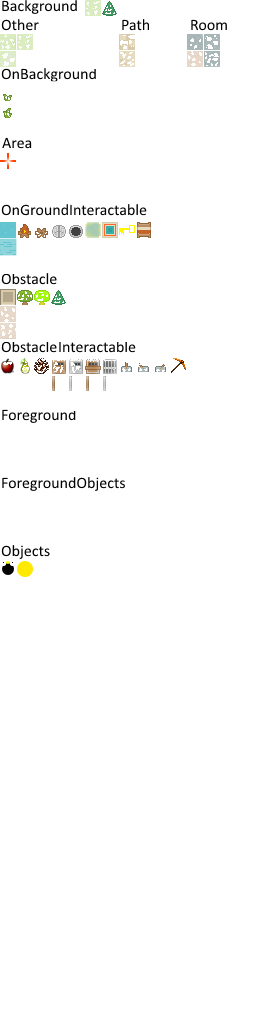
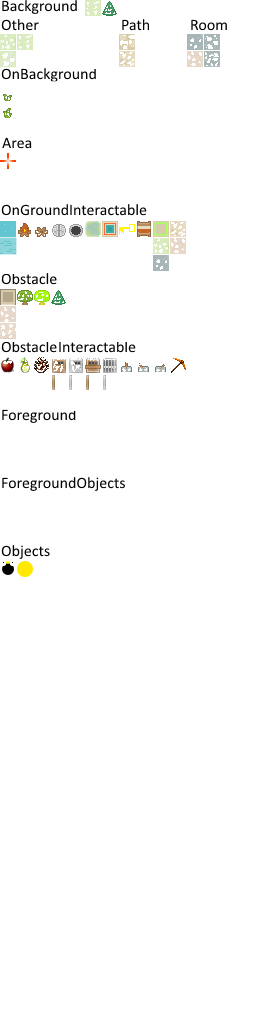
StepSwitcher added; Small changes in physics; mockup map upgraded

diff --git a/Sources/Modules/ToyWorld/World/GameActors/Tiles/OnGroundInteractable/StepSwitch.cs b/Sources/Modules/ToyWorld/World/GameActors/Tiles/OnGroundInteractable/StepSwitch.cs
@@ -1,0 +1,43 @@
+using VRageMath;
+using World.Atlas;
+using World.GameActors.GameObjects;
+using World.ToyWorldCore;
+
+namespace World.GameActors.Tiles.OnGroundInteractable
+{
+    public class StepSwitch : DynamicTile, ISwitcherGameActor, IDetectorTile, IAutoupdateableGameActor
+    {
+        public ISwitchableGameActor Switchable { get; set; }
+
+        public StepSwitch(ITilesetTable tilesetTable, Vector2I position)
+            : base(tilesetTable, position)
+        {
+        }
+
+        public StepSwitch(int tileType, Vector2I position)
+            : base(tileType, position)
+        {
+        }
+
+        public void Switch(GameActorPosition gameActorPosition, IAtlas atlas, ITilesetTable table)
+        {
+            Switchable = Switchable?.SwitchOn(null, atlas, table);
+        }
+
+        public bool RequiresCenterOfObject => false;
+
+        public void ObjectDetected(IGameObject gameObject, IAtlas atlas, ITilesetTable tilesetTable)
+        {
+            Switchable = Switchable?.SwitchOn(null, atlas, tilesetTable);
+            NextUpdateAfter = 1;
+        }
+
+        public int NextUpdateAfter { get; private set; } = 1;
+
+        public void Update(IAtlas atlas, ITilesetTable table)
+        {
+            Switchable = Switchable?.SwitchOff(null, atlas, table);
+            NextUpdateAfter = 0;
+        }
+    }
+}

diff --git a/Sources/Modules/ToyWorld/World/Physics/CollisionChecker.cs b/Sources/Modules/ToyWorld/World/Physics/CollisionChecker.cs
@@ -149,6 +149,7 @@ namespace World.Physics
 
         public bool CollidesWithTile(IPhysicalEntity physicalEntity)
         {
+            if (!physicalEntity.ElasticCollision && !physicalEntity.InelasticCollision) return false;
             List<Vector2I> coverTilesCoordinates = physicalEntity.CoverTiles();
             bool colliding = !coverTilesCoordinates.TrueForAll(x => !m_atlas.ContainsCollidingTile(x));
             return colliding;
@@ -156,6 +157,7 @@ namespace World.Physics
 
         public bool CollidesWithPhysicalEntity(IPhysicalEntity physicalEntity)
         {
+            if (!physicalEntity.ElasticCollision && !physicalEntity.InelasticCollision) return false;
             var circle = new Circle(physicalEntity.Position, 2 * MaximumGameObjectRadius);
             List<IPhysicalEntity> physicalEntities = m_objectLayer.GetPhysicalEntities(circle);
             return physicalEntities.Any(physicalEntity.CollidesWith);

diff --git a/Sources/Modules/ToyWorld/World/GameActors/Tiles/ObstacleInteractable/KeyDoorClosed.cs b/Sources/Modules/ToyWorld/World/GameActors/Tiles/ObstacleInteractable/KeyDoorClosed.cs
@@ -24,5 +24,15 @@ namespace World.GameActors.Tiles.ObstacleInteractable
             atlas.Remove(new GameActorPosition(this, (Vector2)Position, LayerType.ObstacleInteractable));
             return openedDoor;
         }
+
+        public ISwitchableGameActor SwitchOn(GameActorPosition gameActorPosition, IAtlas atlas, ITilesetTable table)
+        {
+            return Switch(gameActorPosition, atlas, table);
+        }
+
+        public ISwitchableGameActor SwitchOff(GameActorPosition gameActorPosition, IAtlas atlas, ITilesetTable table)
+        {
+            return this;
+        }
     }
 }

diff --git a/Sources/Modules/ToyWorld/World/GameActors/Tiles/ObstacleInteractable/RcDoorClosed.cs b/Sources/Modules/ToyWorld/World/GameActors/Tiles/ObstacleInteractable/RcDoorClosed.cs
@@ -24,5 +24,15 @@ namespace World.GameActors.Tiles.ObstacleInteractable
             atlas.Remove(new GameActorPosition(this, (Vector2)Position, LayerType.ObstacleInteractable));
             return openedDoor;
         }
+
+        public ISwitchableGameActor SwitchOn(GameActorPosition gameActorPosition, IAtlas atlas, ITilesetTable table)
+        {
+            return Switch(gameActorPosition, atlas, table);
+        }
+
+        public ISwitchableGameActor SwitchOff(GameActorPosition gameActorPosition, IAtlas atlas, ITilesetTable table)
+        {
+            return this;
+        }
     }
 }

diff --git a/Sources/Modules/ToyWorld/World/GameActors/Tiles/OnGroundInteractable/KeyDoorOpened.cs b/Sources/Modules/ToyWorld/World/GameActors/Tiles/OnGroundInteractable/KeyDoorOpened.cs
@@ -24,5 +24,15 @@ namespace World.GameActors.Tiles.OnGroundInteractable
             atlas.Remove(new GameActorPosition(this, (Vector2)Position, LayerType.OnGroundInteractable));
             return closedDoor;
         }
+
+        public ISwitchableGameActor SwitchOn(GameActorPosition gameActorPosition, IAtlas atlas, ITilesetTable table)
+        {
+            return this;
+        }
+
+        public ISwitchableGameActor SwitchOff(GameActorPosition gameActorPosition, IAtlas atlas, ITilesetTable table)
+        {
+            return Switch(gameActorPosition, atlas, table);
+        }
     }
 }

diff --git a/Sources/Modules/ToyWorld/World/GameActors/Tiles/OnGroundInteractable/RcDoorOpened.cs b/Sources/Modules/ToyWorld/World/GameActors/Tiles/OnGroundInteractable/RcDoorOpened.cs
@@ -24,5 +24,15 @@ namespace World.GameActors.Tiles.OnGroundInteractable
             atlas.Remove(new GameActorPosition(this, (Vector2)Position, LayerType.OnGroundInteractable));
             return closedDoor;
         }
+
+        public ISwitchableGameActor SwitchOn(GameActorPosition gameActorPosition, IAtlas atlas, ITilesetTable table)
+        {
+            return this;
+        }
+
+        public ISwitchableGameActor SwitchOff(GameActorPosition gameActorPosition, IAtlas atlas, ITilesetTable table)
+        {
+            return Switch(gameActorPosition, atlas, table);
+        }
     }
 }

diff --git a/Sources/Modules/ToyWorld/World/GameActors/GameActorInterfaces.cs b/Sources/Modules/ToyWorld/World/GameActors/GameActorInterfaces.cs
@@ -55,6 +55,10 @@ namespace World.GameActors
     public interface ISwitchableGameActor : IGameActor
     {
         ISwitchableGameActor Switch(GameActorPosition gameActorPosition, IAtlas atlas, ITilesetTable table);
+
+        ISwitchableGameActor SwitchOn(GameActorPosition gameActorPosition, IAtlas atlas, ITilesetTable table);
+
+        ISwitchableGameActor SwitchOff(GameActorPosition gameActorPosition, IAtlas atlas, ITilesetTable table);
     }
 
     public interface ISwitcherGameActor : IGameActor

diff --git a/Sources/Modules/ToyWorld/World/Physics/Shapes.cs b/Sources/Modules/ToyWorld/World/Physics/Shapes.cs
@@ -64,6 +64,12 @@ namespace World.Physics
             Size = size;
         }
 
+        public RectangleShape(Vector2 size)
+        {
+            Position = Vector2.Zero;
+            Size = size;
+        }
+
         public override float PossibleCollisionDistance()
         {
             return Size.Length() / 2;

diff --git a/Sources/Modules/ToyWorld/World/GameActors/GameObjects/Ball.cs b/Sources/Modules/ToyWorld/World/GameActors/GameObjects/Ball.cs
@@ -25,6 +25,7 @@ namespace World.GameActors.GameObjects
             direction,
             typeof(CircleShape))
         {
+            ElasticCollision = true;
         }
 
         public void PickUp(IAtlas atlas, GameAction gameAction, Vector2 position, ITilesetTable tilesetTable = null)

diff --git a/Sources/Modules/ToyWorld/World/Physics/PhysicalEntity.cs b/Sources/Modules/ToyWorld/World/Physics/PhysicalEntity.cs
@@ -16,6 +16,8 @@ namespace World.Physics
         /// </summary>
         IShape Shape { get; set; }
 
+        // if no collision specified, entity does not collide
+
         bool InelasticCollision { get; set; }
 
         bool ElasticCollision { get; set; }
